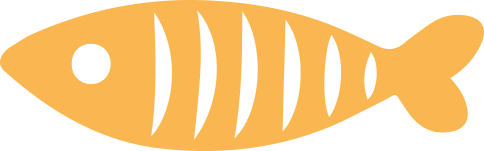
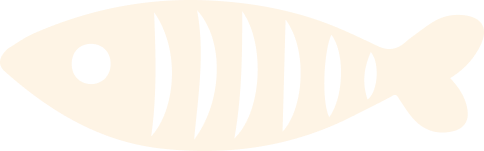
edit

diff --git a/css/slick.css b/css/slick.css
@@ -1,119 +1,161 @@
 /* Slider */
-.slick-slider
-{
-    position: relative;
 
+.slick-slider {
+    position: relative;
     display: block;
     box-sizing: border-box;
-
     -webkit-user-select: none;
-       -moz-user-select: none;
-        -ms-user-select: none;
-            user-select: none;
-
+    -moz-user-select: none;
+    -ms-user-select: none;
+    user-select: none;
     -webkit-touch-callout: none;
     -khtml-user-select: none;
     -ms-touch-action: pan-y;
-        touch-action: pan-y;
+    touch-action: pan-y;
     -webkit-tap-highlight-color: transparent;
 }
 
-.slick-list
-{
+.slick-list {
     position: relative;
-
     display: block;
     overflow: hidden;
-
     margin: 0;
     padding: 0;
 }
-.slick-list:focus
-{
+
+.slick-list:focus {
     outline: none;
 }
-.slick-list.dragging
-{
+
+.slick-list.dragging {
     cursor: pointer;
     cursor: hand;
 }
 
-.slick-slider .slick-track,
-.slick-slider .slick-list
-{
+.slick-slider .slick-track, .slick-slider .slick-list {
     -webkit-transform: translate3d(0, 0, 0);
-       -moz-transform: translate3d(0, 0, 0);
-        -ms-transform: translate3d(0, 0, 0);
-         -o-transform: translate3d(0, 0, 0);
-            transform: translate3d(0, 0, 0);
+    -moz-transform: translate3d(0, 0, 0);
+    -ms-transform: translate3d(0, 0, 0);
+    -o-transform: translate3d(0, 0, 0);
+    transform: translate3d(0, 0, 0);
 }
 
-.slick-track
-{
+.slick-track {
     position: relative;
     top: 0;
     left: 0;
-
     display: block;
     margin-left: auto;
     margin-right: auto;
 }
-.slick-track:before,
-.slick-track:after
-{
-    display: table;
 
+.slick-track:before, .slick-track:after {
+    display: table;
     content: '';
 }
-.slick-track:after
-{
+
+.slick-track:after {
     clear: both;
 }
-.slick-loading .slick-track
-{
+
+.slick-loading .slick-track {
     visibility: hidden;
 }
 
-.slick-slide
-{
+.slick-slide {
     display: none;
     float: left;
-
     height: 100%;
     min-height: 1px;
 }
-[dir='rtl'] .slick-slide
-{
+
+[dir='rtl'] .slick-slide {
     float: right;
 }
-.slick-slide img
-{
+
+.slick-slide img {
     display: block;
 }
-.slick-slide.slick-loading img
-{
+
+.slick-slide.slick-loading img {
     display: none;
 }
-.slick-slide.dragging img
-{
+
+.slick-slide.dragging img {
     pointer-events: none;
 }
-.slick-initialized .slick-slide
-{
+
+.slick-initialized .slick-slide {
     display: block;
 }
-.slick-loading .slick-slide
-{
+
+.slick-loading .slick-slide {
     visibility: hidden;
 }
-.slick-vertical .slick-slide
-{
+
+.slick-vertical .slick-slide {
     display: block;
-
     height: auto;
-
     border: 1px solid transparent;
 }
+
 .slick-arrow.slick-hidden {
     display: none;
+}
+
+/* Dots */
+
+.slick-dots {
+    display: flex;
+    justify-content: center;
+}
+
+.slick-dots li {
+    margin-right: 12px;
+    list-style: none;
+}
+
+.slick-dots li:last-child {
+    margin-right: 0;
+}
+
+.slick-dots button {
+    font-size: 0;
+    width: 12px;
+    height: 12px;
+    background-color: #E1E1E1;
+    outline: none;
+    border-radius: 100%;
+    border: none;
+    cursor: pointer;
+}
+
+li.slick-active button {
+    background-color: #FAC663;
+}
+
+/* Arrows */
+
+.slick-arrow {
+    position: absolute;
+    bottom: 0;
+    right: 70px;
+    width: 36px;
+    height: 36px;
+    font-size: 0;
+    color: transparent;
+    border: none;
+    border-radius: 100%;
+    outline: none;
+    cursor: pointer;
+    box-shadow: 0px 2px 12px rgba(173, 152, 143, 0.25);
+}
+
+.slick-prev {
+    right: 120px;
+    background: url(../img/decor/arrow-prev.png) no-repeat center center;
+}
+
+.slick-next {
+    background: url(../img/decor/arrow-next.png) no-repeat center center;
 }

diff --git a/index.html b/index.html
@@ -4,11 +4,12 @@
 <head>
     <meta charset="UTF-8">
     <meta name="viewport" content="width=device-width, initial-scale=1.0">
-    <link rel="stylesheet" href="css/style.css">
+    
     <link rel="preconnect" href="https://fonts.gstatic.com">
     <link href="https://fonts.googleapis.com/css2?family=Lato:wght@400;700&family=Rubik:wght@500;700&display=swap"
         rel="stylesheet">
     <link rel="stylesheet" href="css/slick.css">
+    <link rel="stylesheet" href="css/style.css">
     <title>Document</title>
 </head>
 
@@ -128,7 +129,35 @@
                             <li class="list__item">Размеры (ШхГхВ) — 90х100х180 см</li>
                             <li class="list__item">Цена за сутки: 200₽</li>
                         </ul>
-                        <button class="reserve__btn" type="button">
+                        <button class="reserve__btn btn-orange" type="button">
+                            Забронировать
+                        </button>
+                    </div>
+                </div>
+                <div class="room__item">
+                    <img class="room__img" src="img/rooms/img_2.jpg" alt="room">
+                    <div class="room__description">
+                        <h4 class="room__description-title">Комфорт</h4>
+                        <ul class="room__description-list">
+                            <li class="list__item">Площадь - 1,13 м2</li>
+                            <li class="list__item">Размеры (ШхГхВ) - 100х125х180 см</li>
+                            <li class="list__item">Цена за сутки: 250₽</li>
+                        </ul>
+                        <button class="reserve__btn btn-orange" type="button">
+                            Забронировать
+                        </button>
+                    </div>
+                </div>
+                <div class="room__item">
+                    <img class="room__img" src="img/rooms/img_3.jpg" alt="room">
+                    <div class="room__description">
+                        <h4 class="room__description-title">Сьют</h4>
+                        <ul class="room__description-list">
+                            <li class="list__item">Площадь - 1,56 м2</li>
+                            <li class="list__item">Размеры (ШхГхВ) - 125х125х180 см</li>
+                            <li class="list__item">Цена за сутки: 350₽</li>
+                        </ul>
+                        <button class="reserve__btn btn-orange" type="button">
                             Забронировать
                         </button>
                     </div>
@@ -139,6 +168,7 @@
 
     <script src="https://ajax.googleapis.com/ajax/libs/jquery/3.5.1/jquery.min.js"></script>
     <script src="js/slick.min.js"></script>
+    <script src="js/script.js"></script>
 </body>
 
 </html>

diff --git a/css/style.css b/css/style.css
@@ -171,28 +171,35 @@ a {
   bottom: 7px;
 }
 
-.reserve__btn:hover {
+.btn-orange {
   background-color: #FF7236;
   color: #ffffff;
 }
 
-.reserve__btn:hover::after {
+.btn-orange::after {
   background: url(../img/decor/paw1.svg) no-repeat center;
 }
 
 /* Rooms */
+.section__rooms {
+  background: url(../img/rooms/fish.png) no-repeat 180px 130px;
+}
 
 .room__item {
-  display: flex;
+  display: flex !important;
   align-items: center;
-  padding: 0 70px;
+  padding-left: 70px;
+  margin-bottom: 50px;
+  min-width: 0;
+  position: relative;
+  outline: none;
 }
 
 .room__description {
   background-color: #fff;
   box-shadow: 0px 0px 25px rgba(208, 208, 208, 0.25);
   border-radius: 8px;
-  width: 40%;
+  width: 100%;
   height: 270px;
   padding: 40px 90px;
   z-index: 100;
@@ -202,9 +209,11 @@ a {
 
 .room__description-title {
   margin-bottom: 20px;
+  width: 100%;
 }
 
 .room__description-list {
+  width: 100%;
   margin-bottom: 25px;
   margin-left: 20px;
 }

diff --git a/js/script.js b/js/script.js
@@ -1,0 +1,6 @@
+$(document).ready(function(){
+  $('.rooms__inner').slick({
+    dots: true,
+    autoplay: true,
+  });
+});
